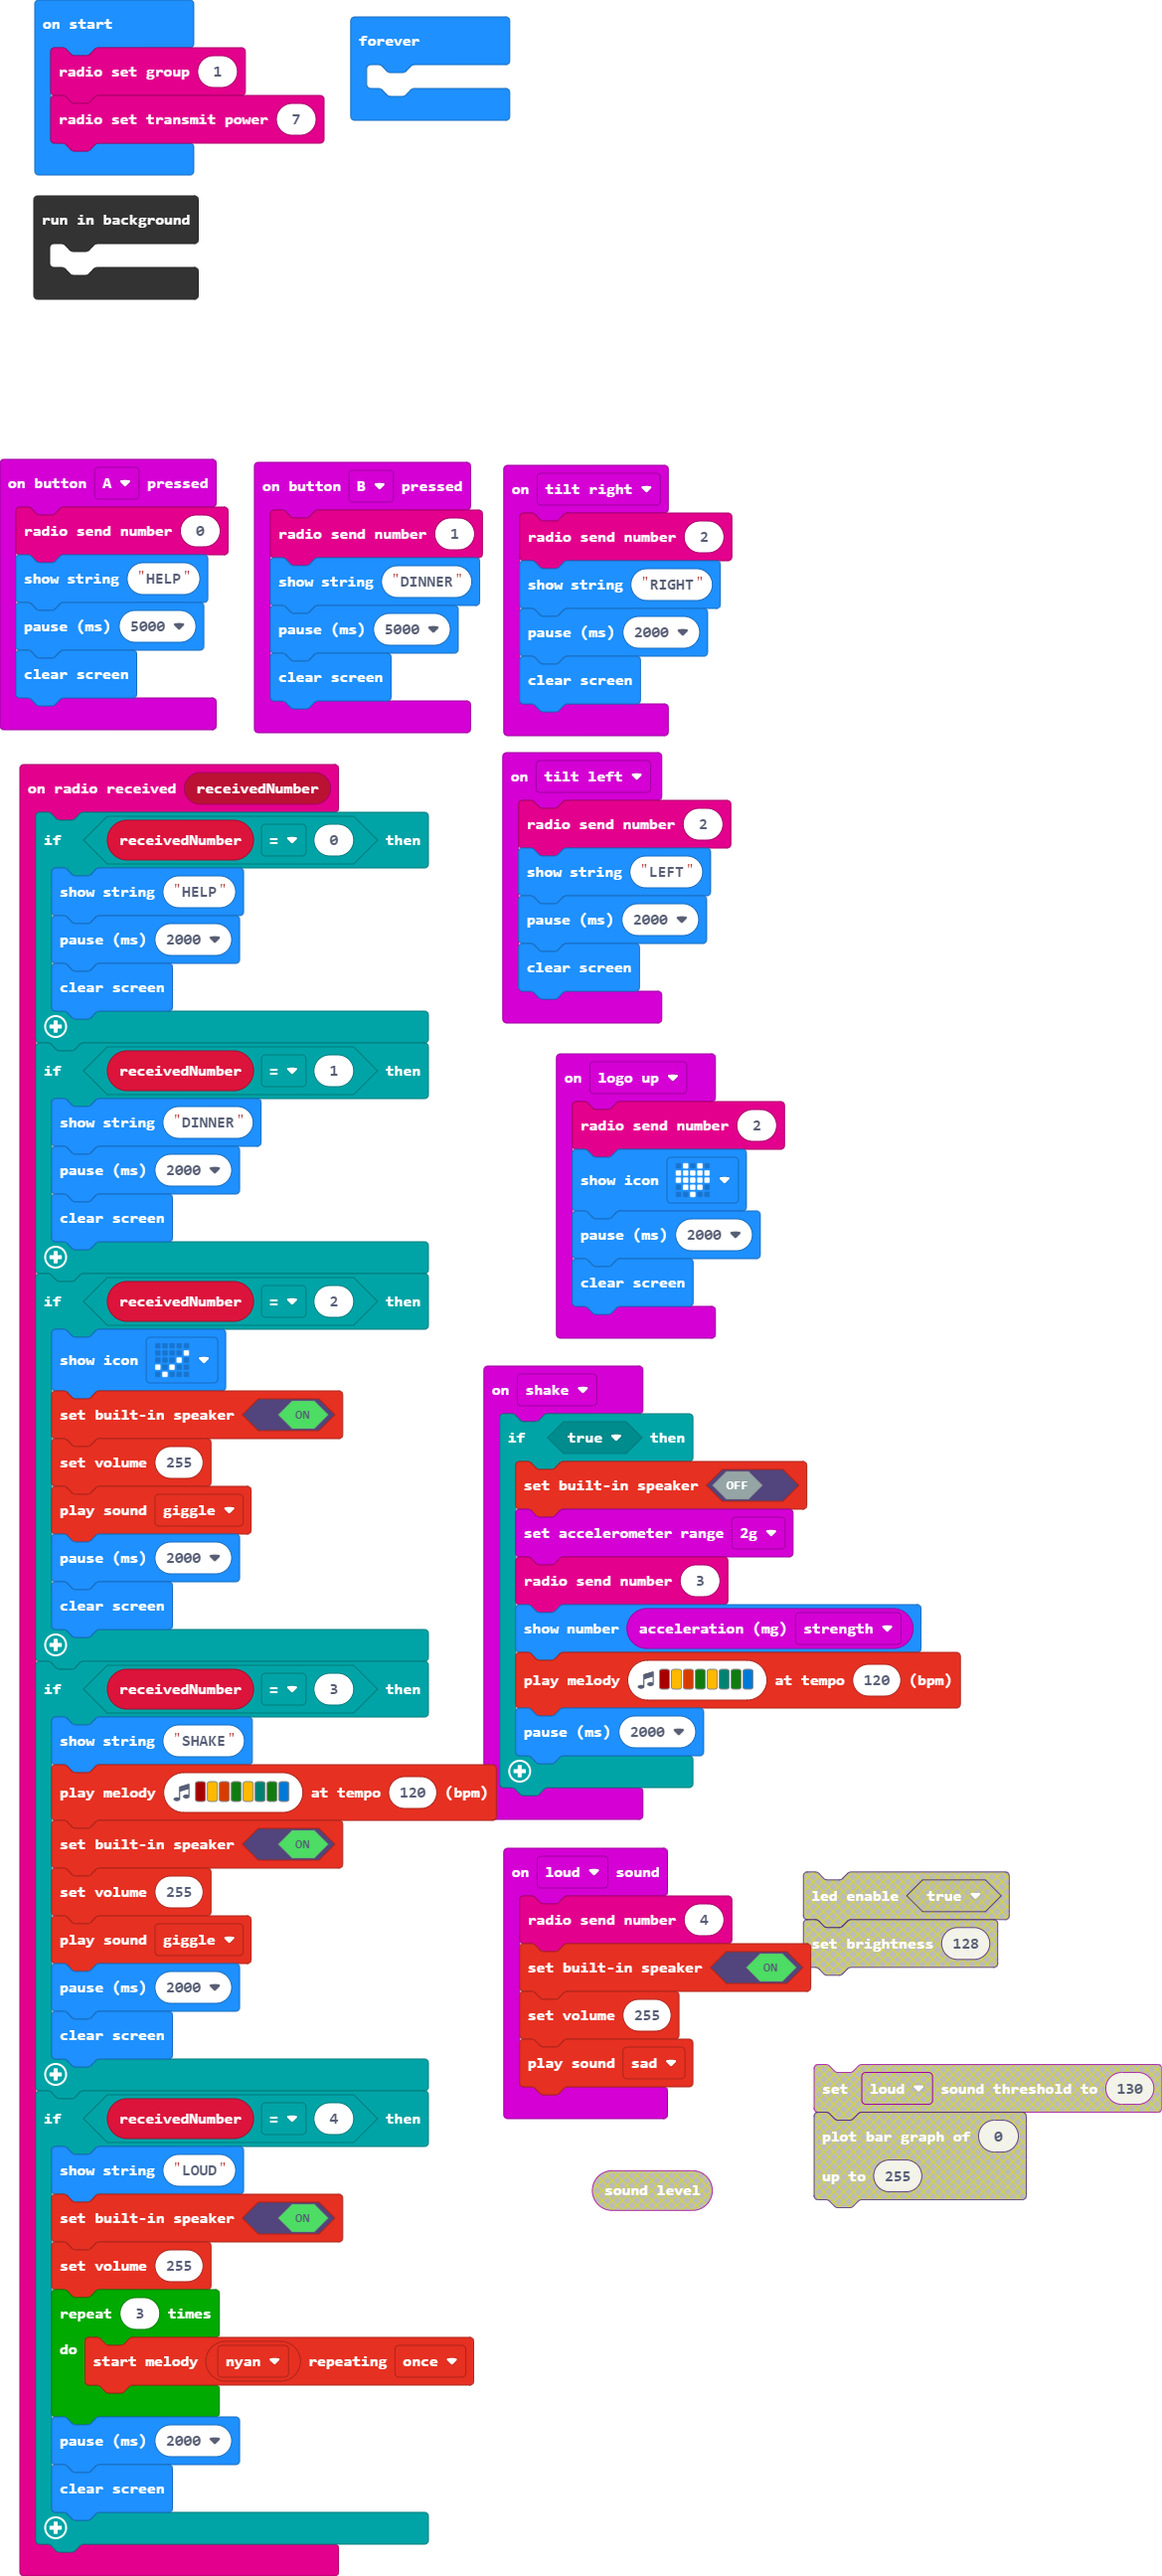
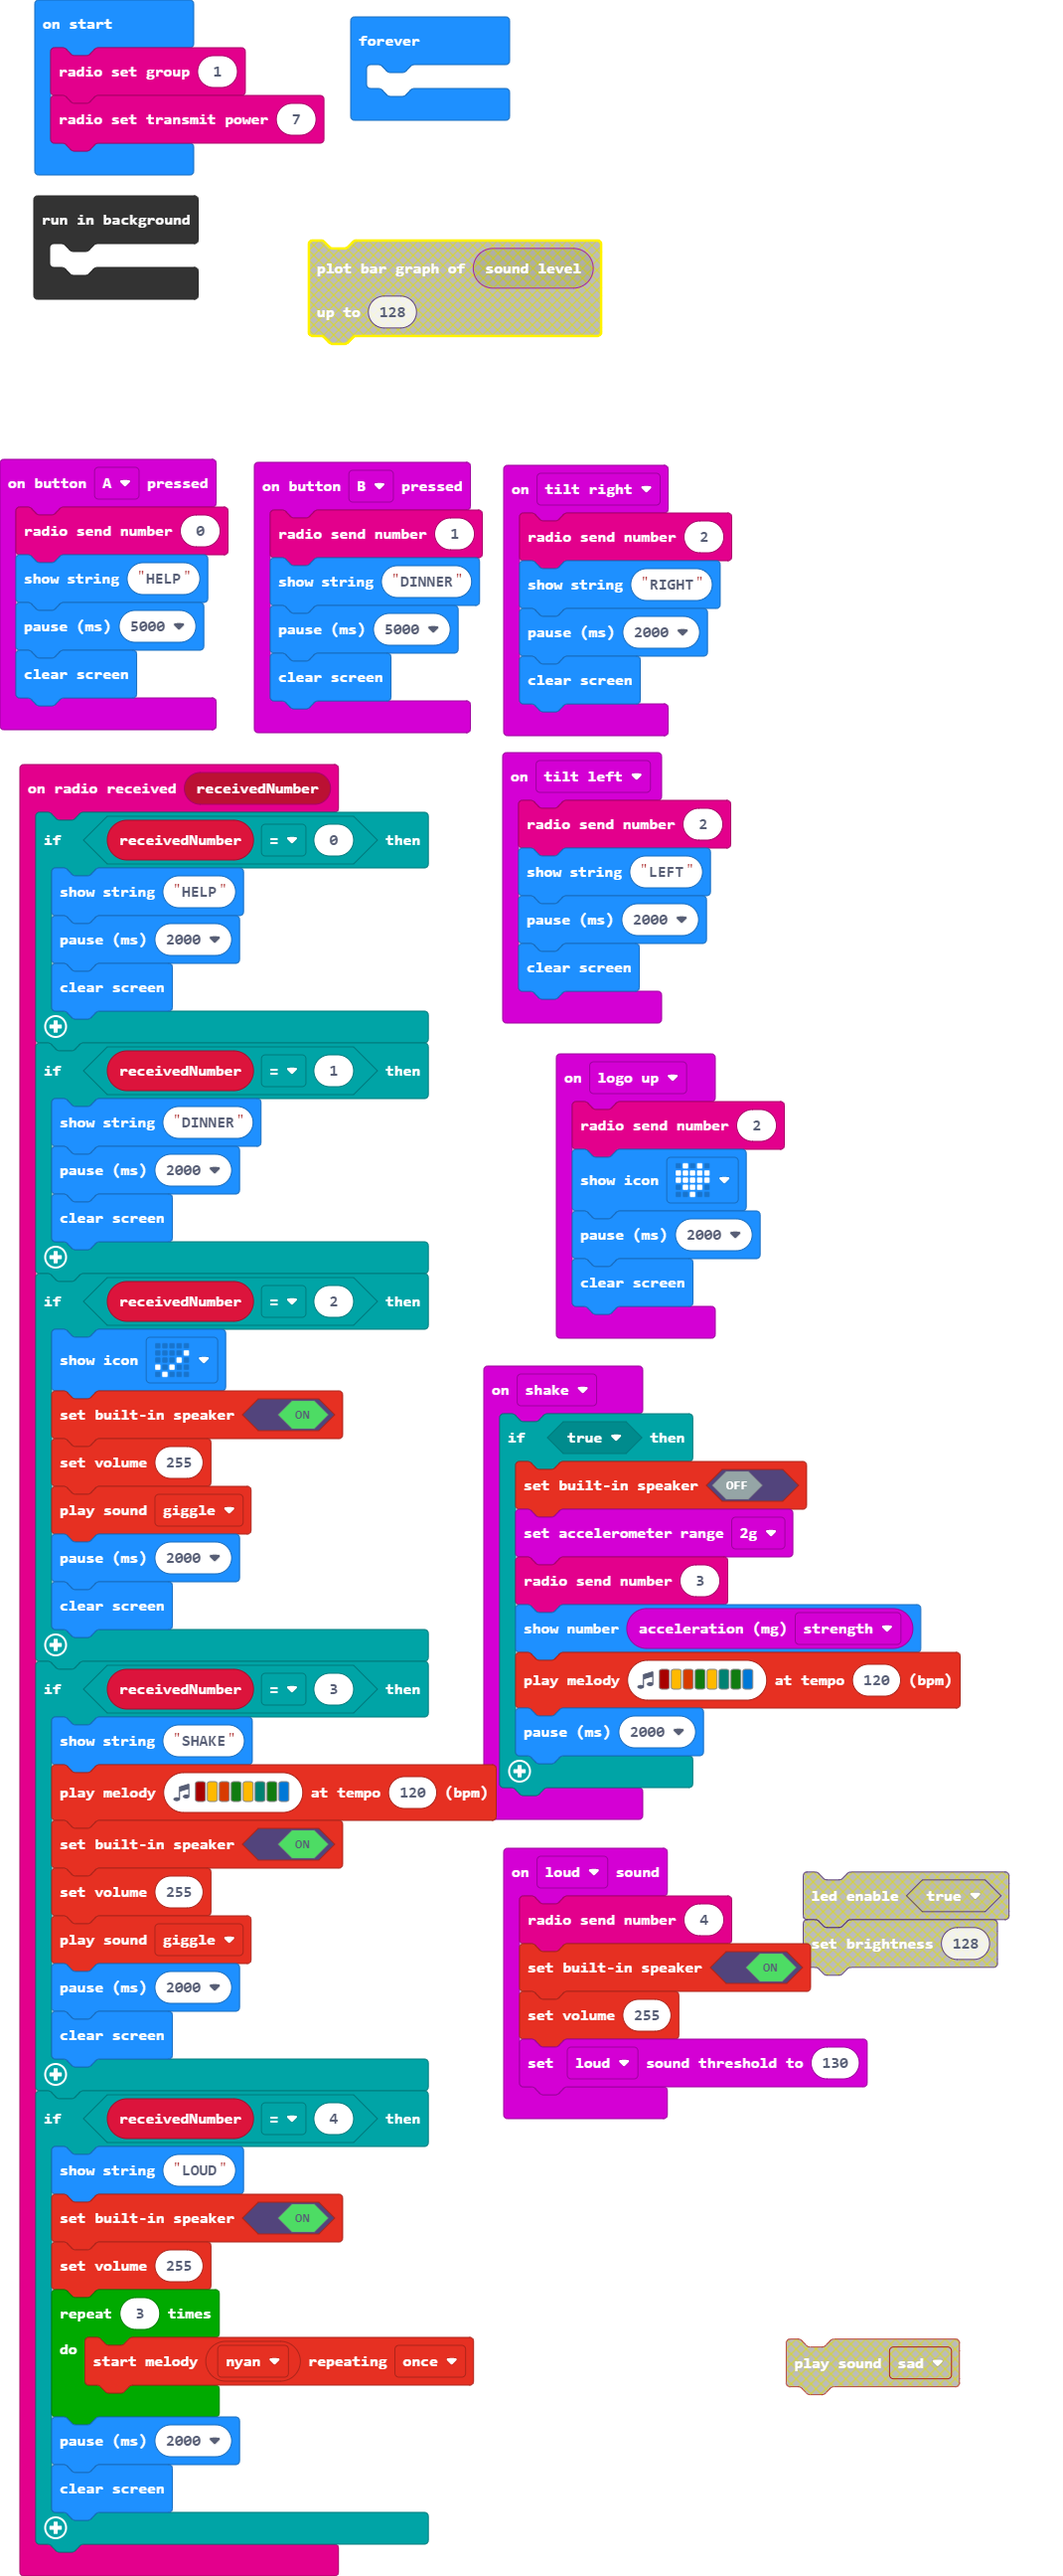
Update main.blocks, main.ts

diff --git a/main.ts b/main.ts
@@ -59,7 +59,7 @@ input.onSound(DetectedSound.Loud, function () {
     radio.sendNumber(4)
     music.setBuiltInSpeakerEnabled(true)
     music.setVolume(255)
-    soundExpression.sad.play()
+    input.setSoundThreshold(SoundThreshold.Loud, 130)
 })
 input.onButtonPressed(Button.B, function () {
     radio.sendNumber(1)
